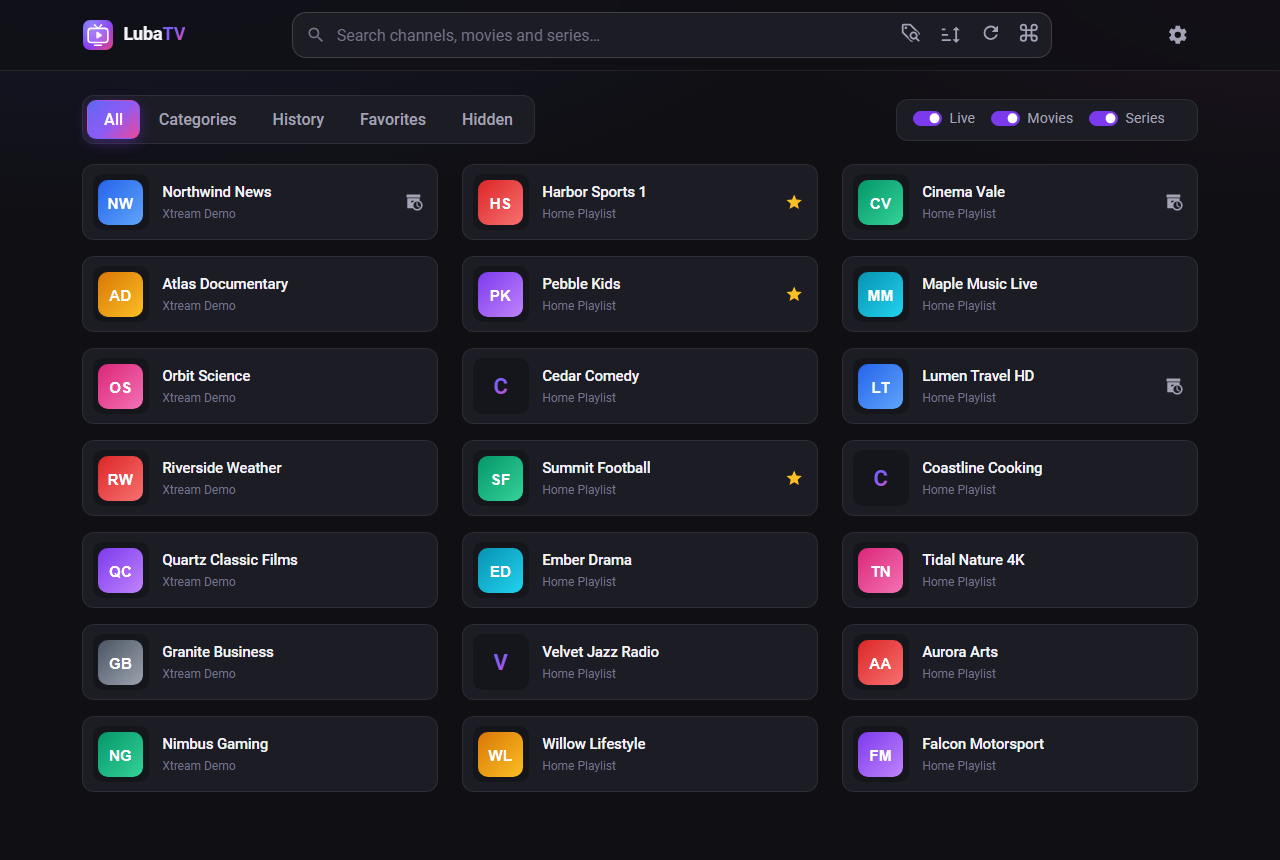
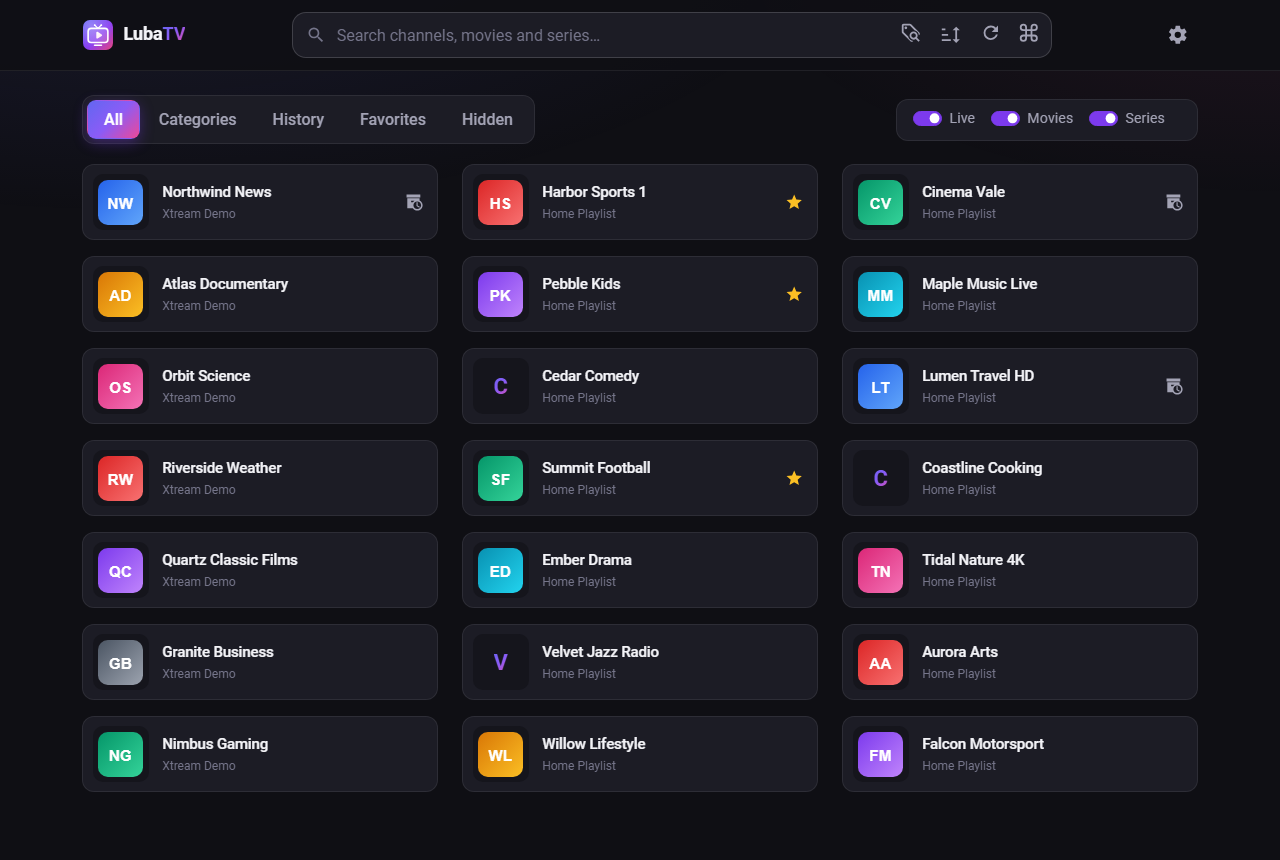
Keep the redesign as cheap to scroll as before
Measured with 3000 fictional channels and 60 mouse-wheel steps through
16 pages, the first redesign took 4.1 s of main-thread work against
2.5 s on main. The cost came from re-rendering tiles under the cursor:

- Tile hover is now an instant colour change; the lift, shadow and
  colour transitions are gone.
- The body glow sits on a fixed ::before layer instead of
  background-attachment: fixed, which repainted the page every frame.
- The sticky header is near-opaque instead of using a backdrop blur.

The same scroll now takes 2.55 s, level with main's 2.51 s, and the
screens look the same.

diff --git a/src/styles.css b/src/styles.css
@@ -67,12 +67,20 @@ body {
   margin: 0;
   font-family: var(--bs-body-font-family);
   background-color: var(--lt-bg);
-  background-image: radial-gradient(1200px 500px at 10% -10%, rgba(99, 102, 241, 0.12), transparent 60%),
-    radial-gradient(900px 400px at 100% -5%, rgba(236, 72, 153, 0.08), transparent 60%);
-  background-attachment: fixed;
-  background-repeat: no-repeat;
   color: var(--lt-text);
   -webkit-font-smoothing: antialiased;
+}
+
+/* Ambient glow on its own fixed layer: background-attachment: fixed would repaint the
+   whole page on every scroll frame. */
+body::before {
+  content: "";
+  position: fixed;
+  inset: 0;
+  z-index: -1;
+  pointer-events: none;
+  background: radial-gradient(1200px 500px at 10% -10%, rgba(99, 102, 241, 0.12), transparent 60%),
+    radial-gradient(900px 400px at 100% -5%, rgba(236, 72, 153, 0.08), transparent 60%);
 }
 
 ::-webkit-scrollbar {
@@ -151,9 +159,8 @@ h5 {
   align-items: center;
   gap: 1rem;
   padding: 0.75rem 1.5rem;
-  background: rgba(15, 15, 20, 0.78);
-  backdrop-filter: blur(14px);
-  -webkit-backdrop-filter: blur(14px);
+  /* Near-opaque instead of a backdrop blur, which re-renders on every scroll frame */
+  background: rgba(15, 15, 20, 0.94);
   border-bottom: 1px solid var(--lt-border);
 }
 

diff --git a/src/app/channel-tile/channel-tile.component.css b/src/app/channel-tile/channel-tile.component.css
@@ -8,15 +8,13 @@
   border-radius: var(--lt-radius);
   overflow: hidden;
   cursor: pointer;
-  transition: background-color 0.15s ease, border-color 0.15s ease, transform 0.2s var(--lt-ease),
-    box-shadow 0.2s ease;
+  /* Instant, colour-only hover: transitions and a lift re-rendered tiles under the
+     cursor on every scroll frame */
 }
 
 .channel:hover {
   background: var(--lt-surface-2);
-  border-color: rgba(139, 92, 246, 0.45);
-  transform: translateY(-2px);
-  box-shadow: var(--lt-shadow);
+  border-color: rgba(139, 92, 246, 0.5);
 }
 
 .channel:focus {
